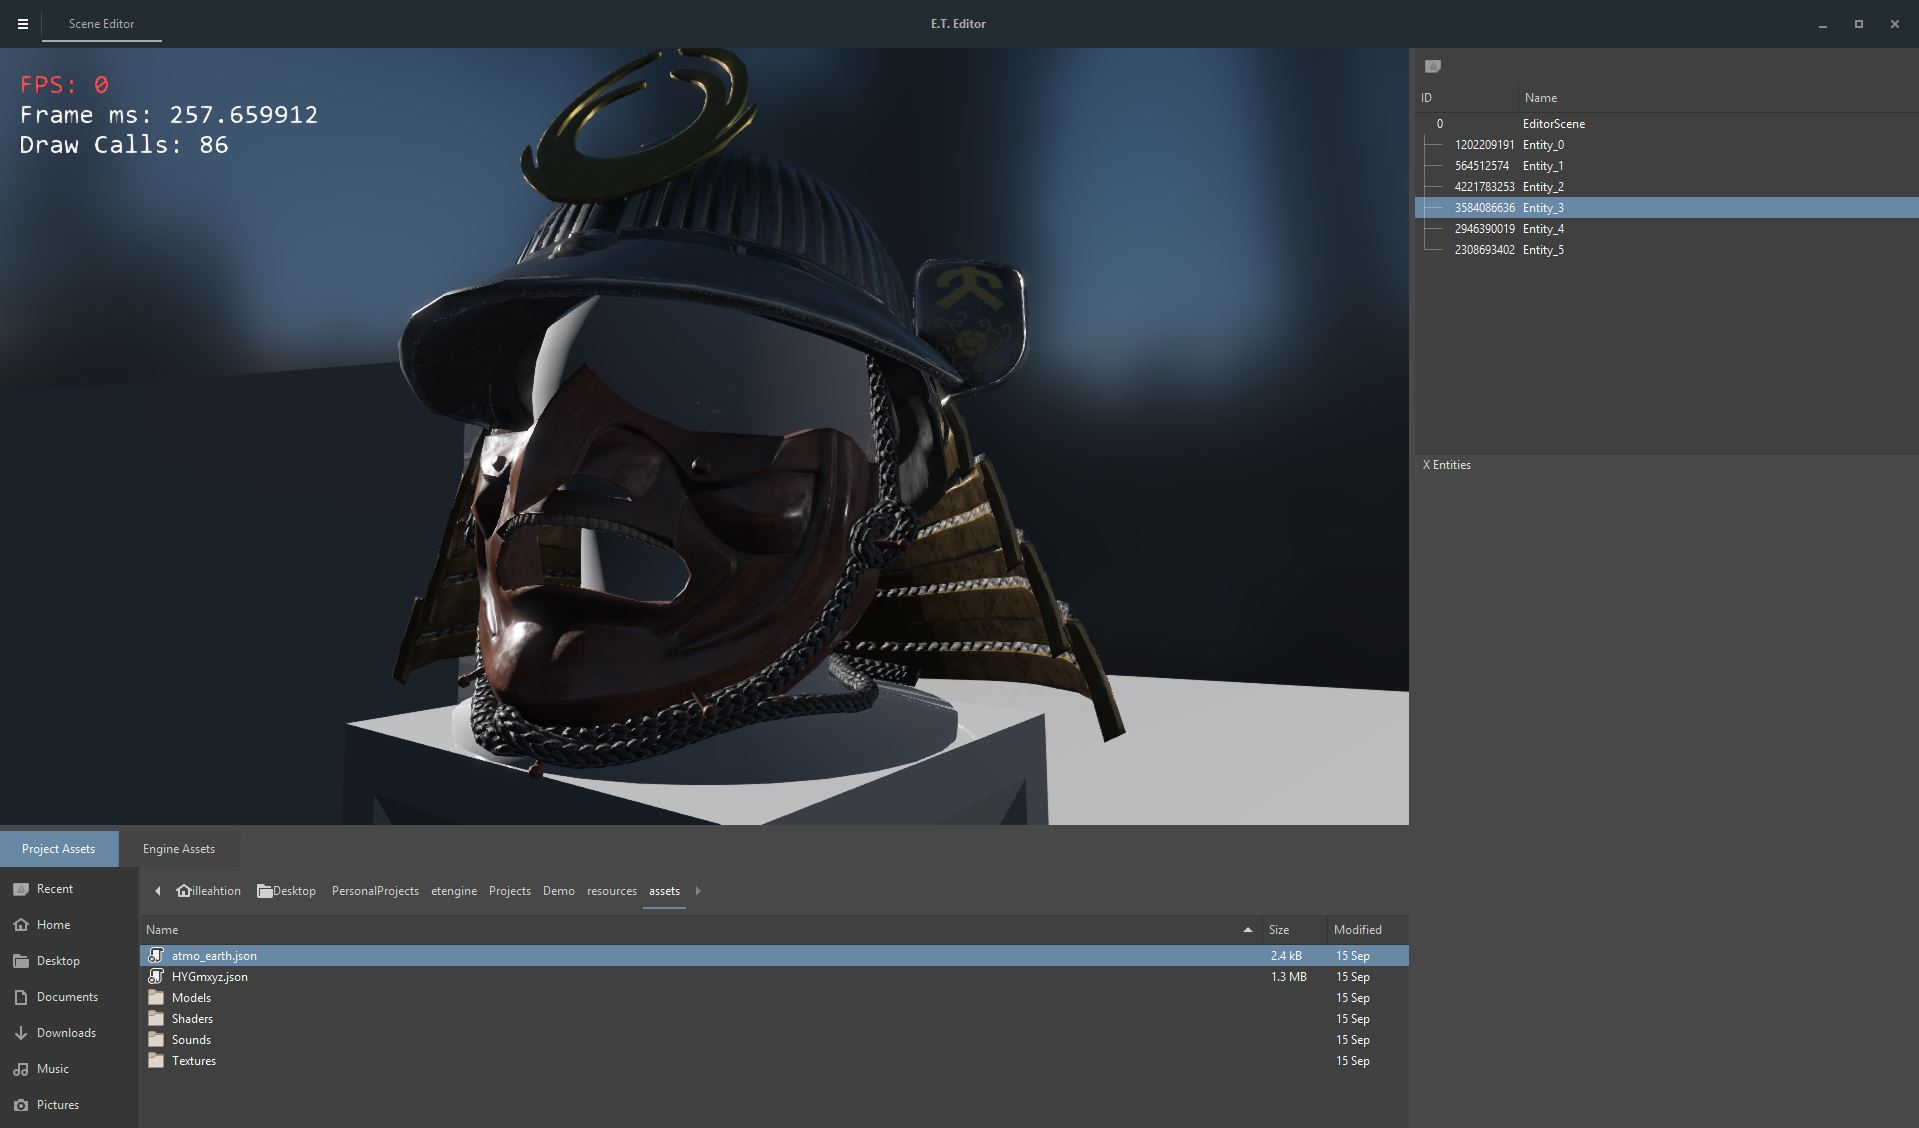
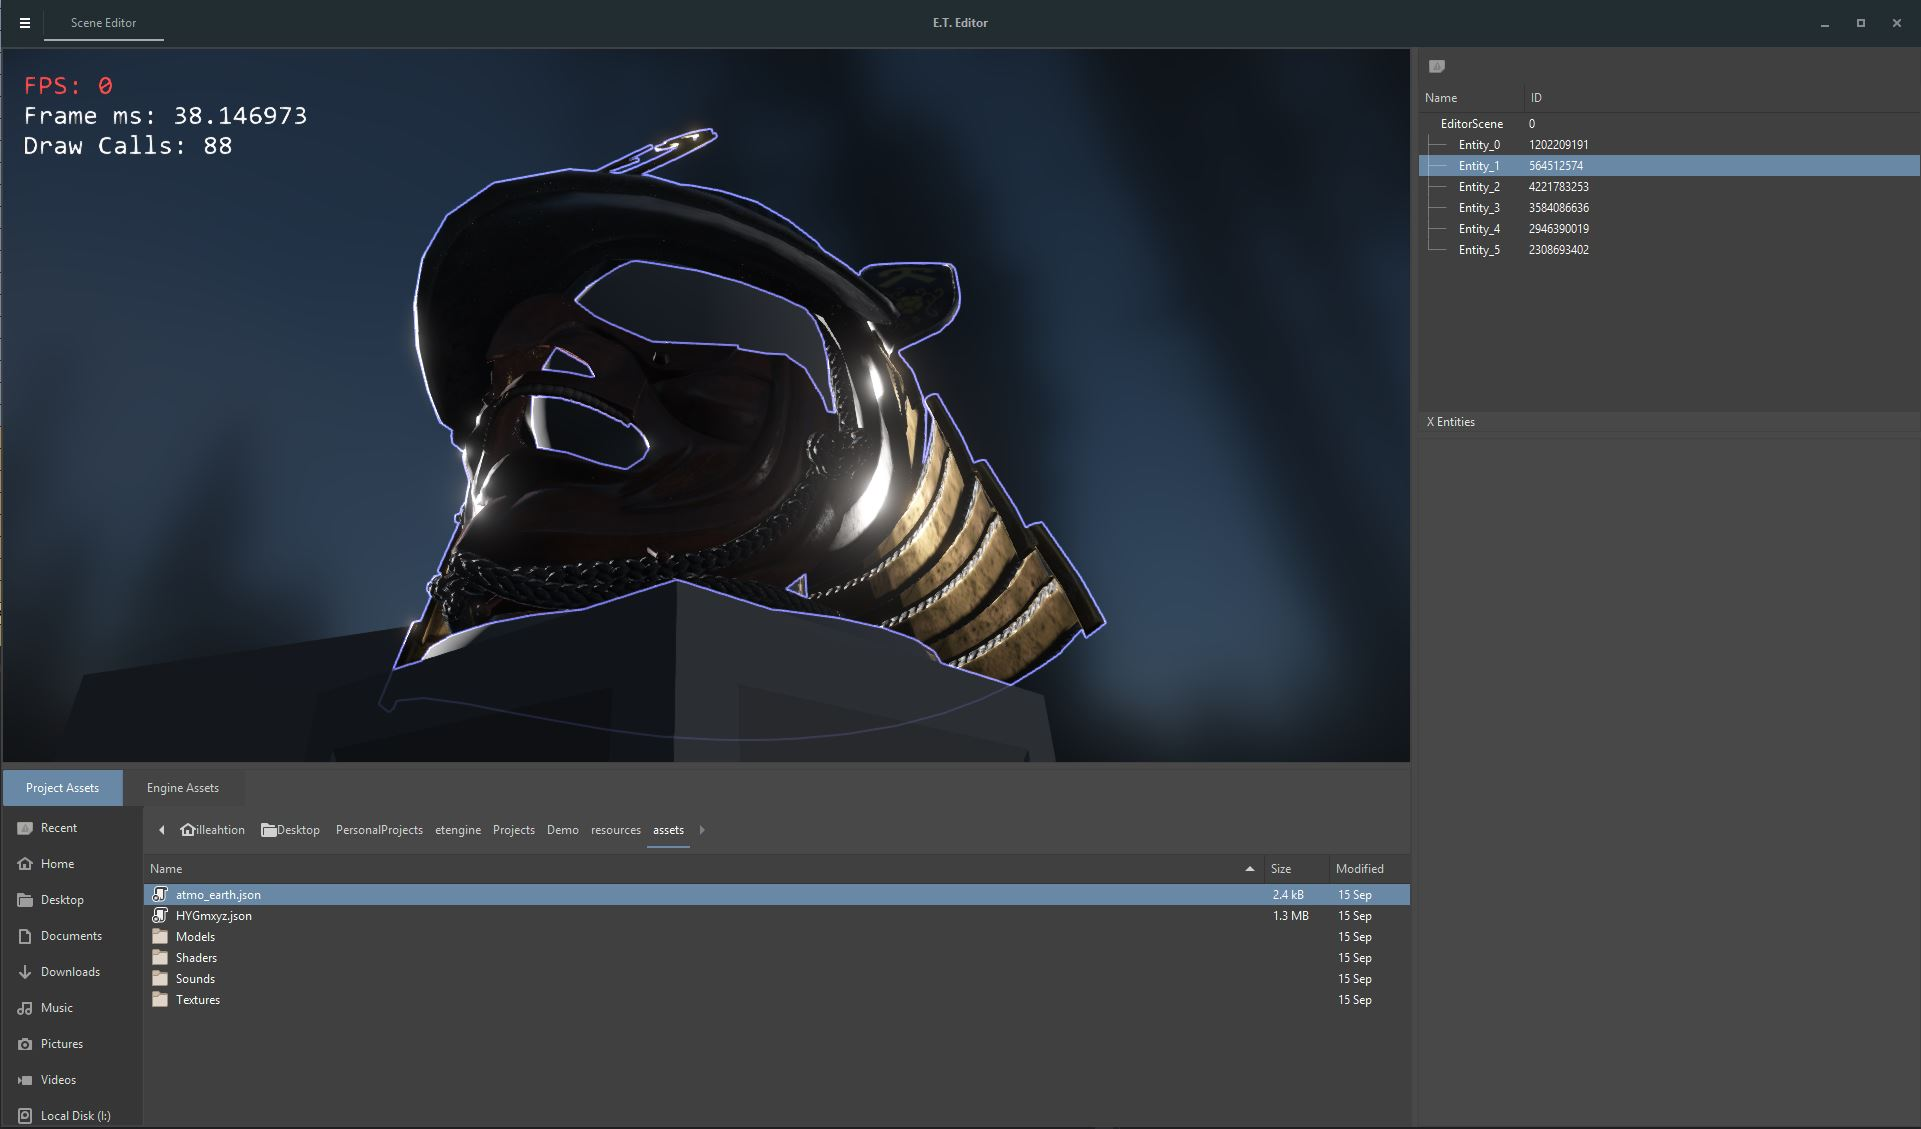
outline renderer now renders edges occluded by non selected objects darker

diff --git a/Engine/source/Engine/GraphicsHelper/OutlineRenderer.cpp b/Engine/source/Engine/GraphicsHelper/OutlineRenderer.cpp
@@ -124,8 +124,9 @@ void OutlineRenderer::Draw(T_FbLoc const targetFb)
 	}
 
 	I_GraphicsApiContext* const api = Viewport::GetCurrentApiContext();
+	Config::Settings::Window const& windowSettings = Config::GetInstance()->GetWindow();
 
-	api->SetViewport(ivec2(0), Config::GetInstance()->GetWindow().Dimensions);
+	api->SetViewport(ivec2(0), windowSettings.Dimensions);
 
 	// draw the shapes as colors to the intermediate rendertarget
 	//------------------------------------------------------------
@@ -136,13 +137,16 @@ void OutlineRenderer::Draw(T_FbLoc const targetFb)
 
 	api->SetShader(m_Shader.get());
 	m_Shader->Upload("worldViewProj"_hash, CAMERA->GetViewProj());
+	m_Shader->Upload("uViewSize"_hash, etm::vecCast<float>(windowSettings.Dimensions));
+
+	m_Shader->Upload("uOcclusionFactor"_hash, 0.15f);
 
 	// bind the gbuffers depth texture
-	//m_Shader->Upload("texGBufferA"_hash, 0);
-	//api->LazyBindTexture(0, E_TextureType::Texture2D, SceneRenderer::GetInstance()->GetGBuffer()->GetTextures()[0]->GetHandle());
+	m_Shader->Upload("texGBufferA"_hash, 0);
+	auto gbufferTex = SceneRenderer::GetInstance()->GetGBuffer()->GetTextures()[0];
+	api->LazyBindTexture(0, gbufferTex->GetTargetType(), gbufferTex->GetHandle());
 
-	//api->SetDepthEnabled(true);
-	//api->SetDepthFunction(E_DepthFunc::GEqual);
+	api->SetDepthEnabled(true); 
 
 	for (EntityList& list : m_Lists)
 	{
@@ -155,8 +159,6 @@ void OutlineRenderer::Draw(T_FbLoc const targetFb)
 	}
 
 	m_Lists.clear();
-
-	//return;
 
 	// apply a sobel shader to the colored shapes and render it to the target framebuffer
 	//------------------------------------------------------------------------------------
